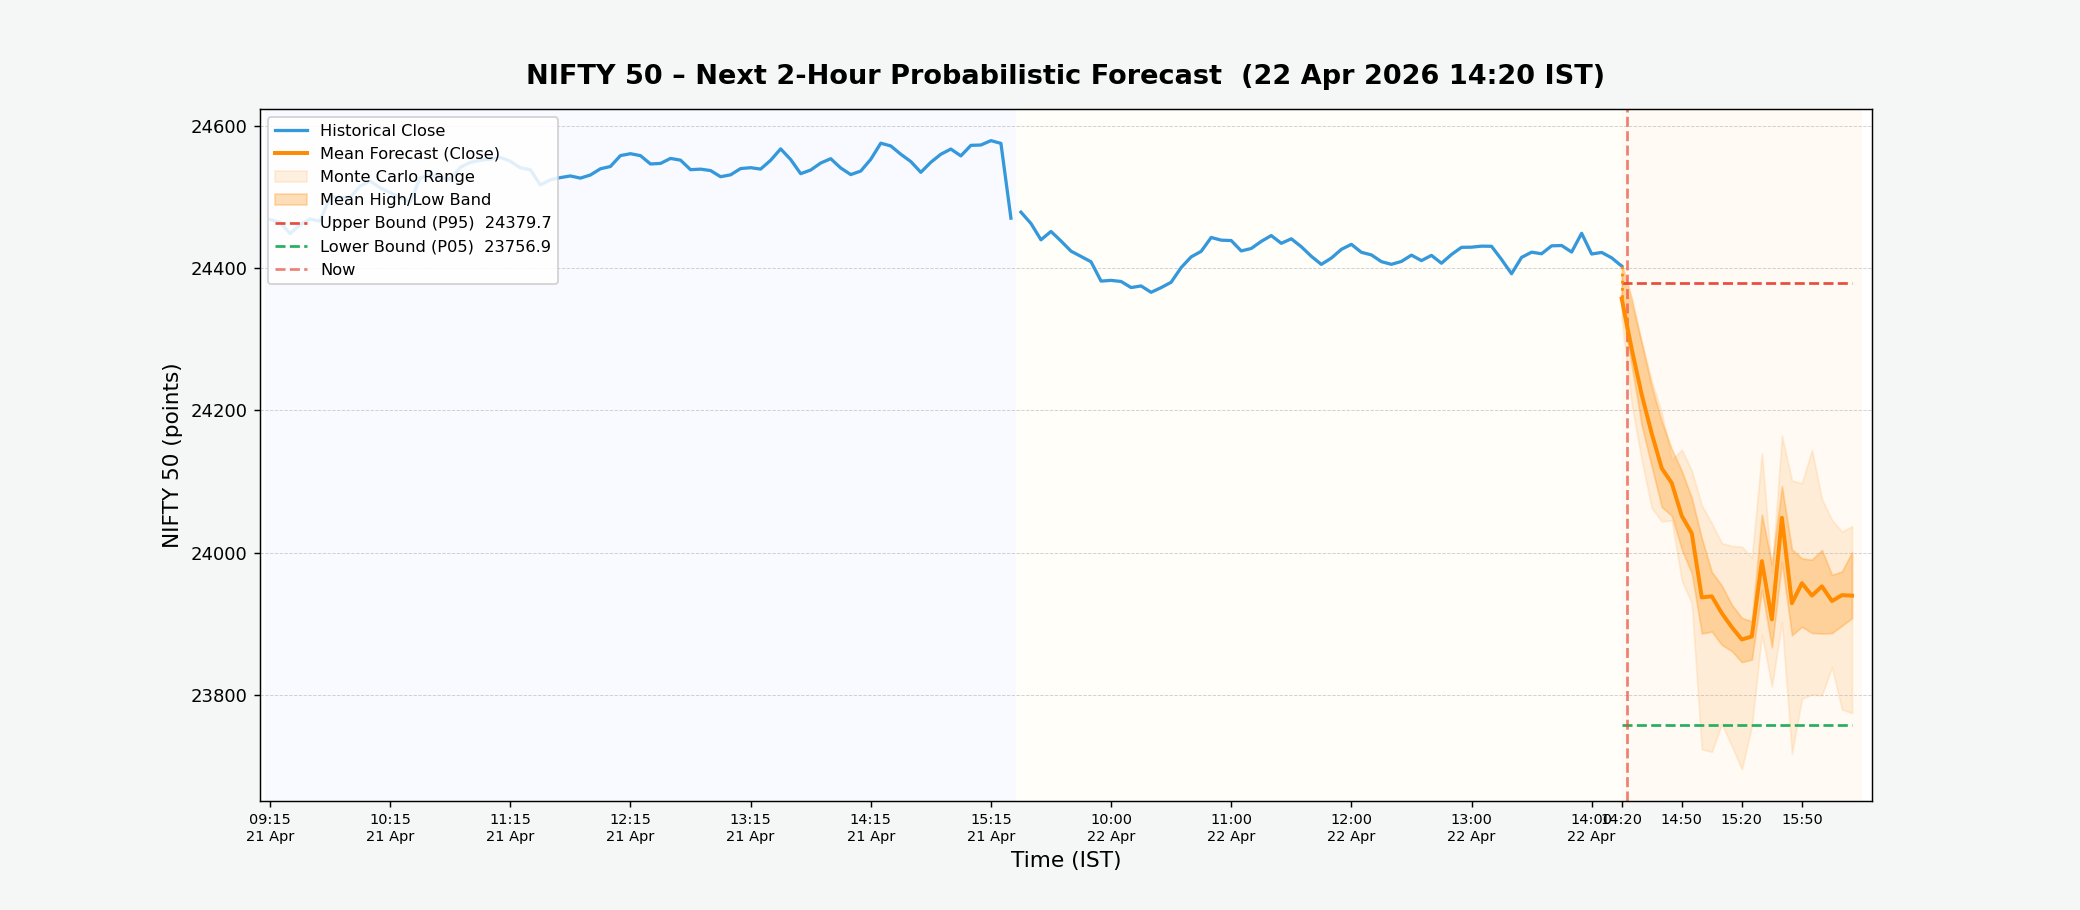
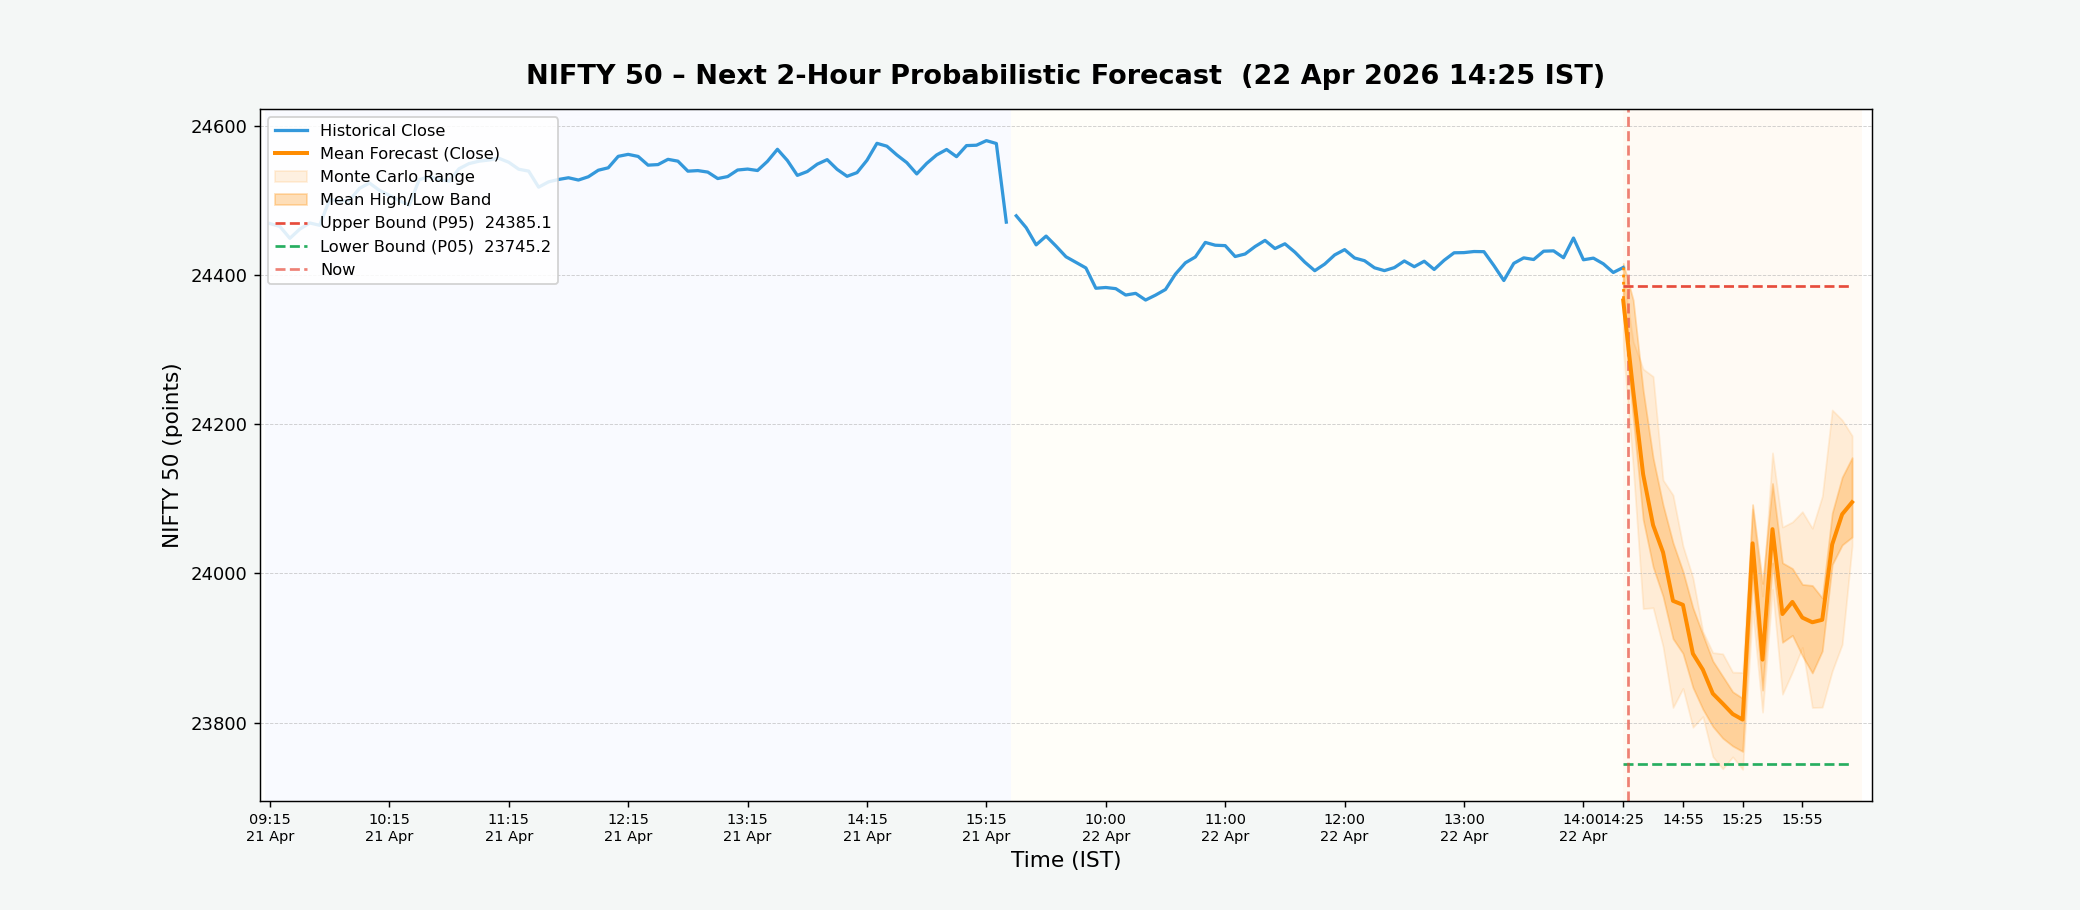
NIFTY forecast update – 2026-04-22 14:25 IST

diff --git a/index.html b/index.html
@@ -24,7 +24,7 @@
 
         <!-- Timestamp bar -->
         <div class="timestamp-bar">
-            <span>Last updated (IST):&nbsp;<strong id="update-time">2026-04-22 14:20:04</strong></span>
+            <span>Last updated (IST):&nbsp;<strong id="update-time">2026-04-22 14:25:04</strong></span>
         </div>
 
         <!-- Metric cards -->
@@ -36,17 +36,17 @@
             </div>
             <div class="metric-card upper">
                 <div class="metric-label">Upper Bound</div>
-                <div class="metric-value" id="upper-bound">24379.7</div>
+                <div class="metric-value" id="upper-bound">24385.1</div>
                 <div class="metric-sub">Max predicted high</div>
             </div>
             <div class="metric-card lower">
                 <div class="metric-label">Lower Bound</div>
-                <div class="metric-value" id="lower-bound">23756.9</div>
+                <div class="metric-value" id="lower-bound">23745.2</div>
                 <div class="metric-sub">Min predicted low</div>
             </div>
             <div class="metric-card range">
                 <div class="metric-label">Predicted Range</div>
-                <div class="metric-value" id="pred-range">622.8 pts</div>
+                <div class="metric-value" id="pred-range">640.0 pts</div>
                 <div class="metric-sub">Upper − Lower spread</div>
             </div>
         </div>
